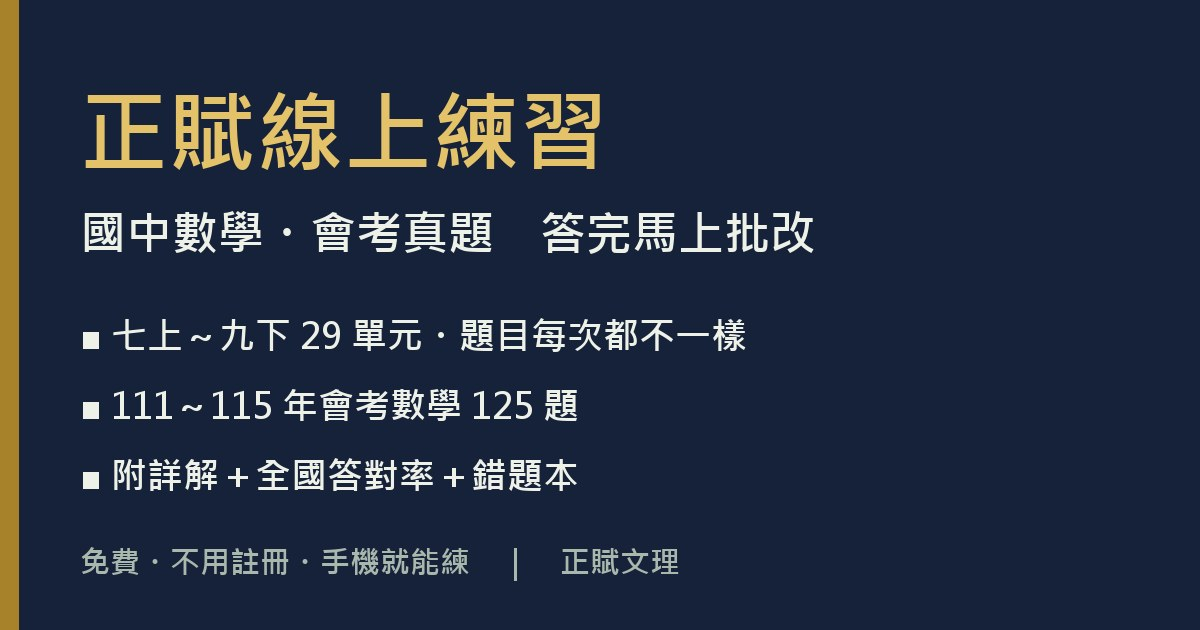
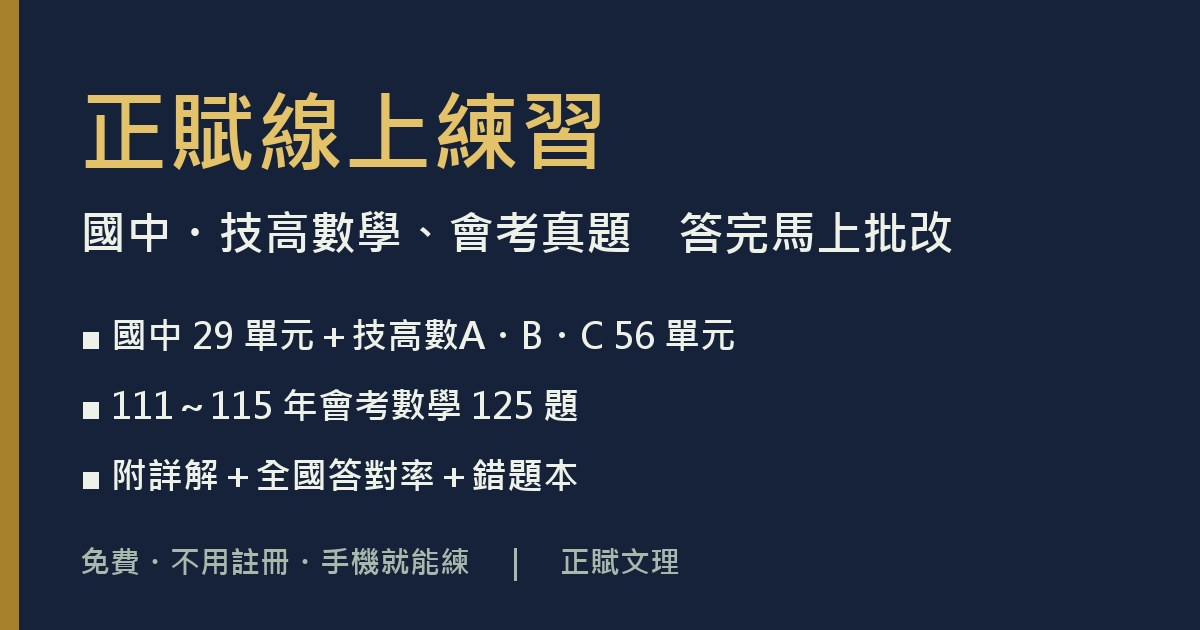
正賦線上練習加入技高數學A・B・C 56 單元（年級可選技高，每日挑戰 10 題）；錯誤選項更難一眼刪除

Changed region(s): [[0.1233, 0.3317, 0.8017, 0.4222], [0.0925, 0.4825, 0.6167, 0.573]]

diff --git a/practice/index.html b/practice/index.html
@@ -4,13 +4,13 @@
 <meta charset="utf-8">
 <meta name="referrer" content="no-referrer-when-downgrade">
 <meta name="viewport" content="width=device-width, initial-scale=1, viewport-fit=cover">
-<title>正賦線上練習｜國中數學・會考真題 線上作答馬上批改</title>
-<meta name="description" content="正賦文理免費國中數學線上練習：七上到九下 29 個單元題目每次都不一樣，加上 111～115 年會考數學真題，答完馬上批改、看詳解和全國答對率。不用註冊，手機平板都能用。">
+<title>正賦線上練習｜國中・技高數學、會考真題 線上作答馬上批改</title>
+<meta name="description" content="正賦文理免費數學線上練習：國中七上到九下 29 單元、技高數學A・B・C 56 單元，題目每次都不一樣，加上 111～115 年會考數學真題，答完馬上批改、看詳解和全國答對率。不用註冊，手機平板都能用。">
 <link rel="icon" type="image/png" href="../img/logo.png">
 <link rel="canonical" href="https://wade-chuang.github.io/jenfoo/practice/">
 <meta property="og:type" content="website"><meta property="og:site_name" content="正賦文理">
-<meta property="og:title" content="正賦線上練習｜國中數學・會考真題，答完馬上批改">
-<meta property="og:description" content="七上到九下數學單元練習＋111～115 年會考真題，看詳解和全國答對率。免費、不用註冊。">
+<meta property="og:title" content="正賦線上練習｜國中・技高數學、會考真題，答完馬上批改">
+<meta property="og:description" content="國中七上到九下、技高數學A・B・C 單元練習，加上 111～115 年會考真題，看詳解和全國答對率。免費、不用註冊。">
 <meta property="og:image" content="https://wade-chuang.github.io/jenfoo/practice/og.jpg"><meta property="og:url" content="https://wade-chuang.github.io/jenfoo/practice/">
 <meta name="twitter:card" content="summary_large_image">
 <link rel="preconnect" href="https://fonts.googleapis.com"><link rel="preconnect" href="https://fonts.gstatic.com" crossorigin>
@@ -154,24 +154,29 @@ footer a{font-weight:700}
   </footer>
 </div>
 
-<script src="data/math_units.js?v=1800e248"></script>
+<script src="data/math_units.js?v=fd008793"></script>
 <script src="data/huikao.js?v=4bdc135d"></script>
 <script>
 /* ================= 基本設定 ================= */
 const $=s=>document.querySelector(s);
 const LINE='https://line.me/ti/p/~jenfoo2021';
-const BOOKS={7:['七上','七下'],8:['八上','八下'],9:['九上','九下']};
-const GZH={7:'七',8:'八',9:'九'};
+// 年級：國中 7/8/9；技高依統測試卷 A/B/C（各四冊）
+const BOOKS={7:['七上','七下'],8:['八上','八下'],9:['九上','九下'],
+  A:['數A一','數A二','數A三','數A四'],B:['數B一','數B二','數B三','數B四'],C:['數C一','數C二','數C三','數C四']};
+const GNAME={7:'七年級',8:'八年級',9:'九年級',A:'技高數學A',B:'技高數學B',C:'技高數學C'};
+const isTK=g=>/^[ABC]$/.test(g);
+const bookName=b=>/^數[ABC]/.test(b)?'第'+b.slice(2)+'冊':b;
 const LEVELS=['數學新手','見習解題手','解題手','進階解題手','計算高手','幾何高手','會考戰士','數學學霸','正賦菁英','數學大師'];
 const esc=s=>String(s).replace(/[&<>"]/g,c=>({'&':'&amp;','<':'&lt;','>':'&gt;','"':'&quot;'}[c]));
 const shuffleArr=a=>{a=a.slice();for(let i=a.length-1;i>0;i--){const j=Math.random()*(i+1)|0;[a[i],a[j]]=[a[j],a[i]]}return a};
 const today=()=>{const d=new Date();return d.getFullYear()+'-'+(d.getMonth()+1)+'-'+d.getDate()};
-const MATH=U.filter(u=>/^[七八九][上下]$/.test(u.g));
+const MATH=U.filter(u=>/^[七八九][上下]$|^數[ABC][一二三四]$/.test(u.g));
 
 /* ================= 學習紀錄（只存在這台裝置） ================= */
 const KEY='jenfoo.practice.v1';
-let S={grade:7,xp:0,stars:0,best:{},wrong:[],days:[],mute:false};
+let S={grade:'7',xp:0,stars:0,best:{},wrong:[],days:[],mute:false};
 try{const v=JSON.parse(localStorage.getItem(KEY)||'null');if(v)S=Object.assign(S,v)}catch(e){}
+S.grade=BOOKS[S.grade]?String(S.grade):'7';
 const save=()=>{try{localStorage.setItem(KEY,JSON.stringify(S))}catch(e){}};
 function streak(){const set=new Set(S.days);let n=0;const d=new Date();if(!set.has(today()))d.setDate(d.getDate()-1);
   for(;;){const k=d.getFullYear()+'-'+(d.getMonth()+1)+'-'+d.getDate();if(set.has(k)){n++;d.setDate(d.getDate()-1)}else break}return n}
@@ -219,18 +224,23 @@ function numVariants(ans,signed){
     else if(n>=12&&n<100&&r<.4&&n%10!==Math.floor(n/10))w=+String(n).split('').reverse().join('');
     else w=n+(Math.random()<.5?-1:1)*(1+(Math.random()*2|0));
     const wn=+w;if(wn<0||(wn===0&&n!==0)||wn===n)continue;
-    if(/\\frac\{-?$/.test(before)){const d=+(after.match(/^\}\{(\d+)\}/)||[])[1];if(!d||gcdi(wn,d)!==1)continue}
-    if(/\\sqrt\{$/.test(before)&&(wn<2||[4,9,16,25,36,49,64,81].includes(wn)))continue;
+    if(n===0&&/=\s*$/.test(before))continue;                            // 方程式右邊的 = 0 不動
+    if(/_\{?$/.test(before))continue;                                   // 下標（a_{n}、S_{16}）不動
+    if(wn===1&&/^\s*(?:[a-zA-Z(]|\\sqrt|\\pi)/.test(after))continue;    // 不會寫成 1x、1√3
+    if(/\\frac\{-?$/.test(before)){const d=+(after.match(/^\}\{(\d+)\}/)||[])[1];if(!d||gcdi(wn,d)!==1||(n<d&&wn>=d))continue}  // 真分數的錯誤選項也是真分數
+    if(/\\sqrt\{$/.test(before)&&(wn<2||[4,9,25,49].some(q=>wn%q===0)))continue;   // 錯誤選項也要是最簡根式
     if(/\^\{?\\circ/.test(after)&&wn>=360)continue;
     out.add(before+(thou?fmtThou(wn):isDec?String(w):String(wn))+after)}
   out.delete(ans);return[...out]}
 function fromMath(u,d){
   let it=null;for(let i=0;i<30&&!it;i++){try{it=u.gen(d)}catch(e){it=null}}if(!it)return null;
-  const ans=it.a;let wrong=shuffleArr(numVariants(ans,SIGNED.has(u.id))).slice(0,3);
-  for(let i=0;i<20&&wrong.length<3;i++){let o=null;try{o=u.gen(d)}catch(e){}if(o&&o.a!==ans&&!wrong.includes(o.a))wrong.push(o.a)}
+  const ans=it.a;let wrong=shuffleArr(numVariants(ans,(SIGNED.has(u.id)||/^(c|ta|tb)-(trig2?|vec2|poly|line|seq|trigsum|explog|logapp|det|matrix|deriv|integral|eq|vec3)$/.test(u.id)))).slice(0,3);
+  // 不夠三個，就借同一單元其他題的答案，但要同一種樣子（開頭兩個字一樣），免得選項一眼就能刪
+  const shape=a=>a.slice(0,2);
+  for(let i=0;i<30&&wrong.length<3;i++){let o=null;try{o=u.gen(d)}catch(e){}if(o&&o.a!==ans&&shape(o.a)===shape(ans)&&!wrong.includes(o.a))wrong.push(o.a)}
   if(wrong.length<3)return null;
   const opts=shuffleArr([ans,...wrong]),instr=u.instr&&!/^依題意作答/.test(u.instr)?u.instr:'';
-  return{kind:'math',tag:u.g+'・'+u.name.replace(/（附圖）/,''),instr,q:it.q,opts,ans:opts.indexOf(ans),e:'正確答案：'+ans,fig:it.fig||'',key:it.k||(it.q+'|'+ans)}}
+  return{kind:'math',tag:(/^數[ABC]/.test(u.g)?'技高'+u.g.slice(0,2)+' '+bookName(u.g):u.g)+'・'+u.name.replace(/（附圖）/,''),instr,q:it.q,opts,ans:opts.indexOf(ans),e:'正確答案：'+ans,fig:it.fig||'',key:it.k||(it.q+'|'+ans)}}
 function fromHK(q){return{kind:'hk',hk:q.id,tag:q.y+' 年會考 第 '+q.no+' 題・'+HK_CH[q.ch],ans:q.a,key:'hk'+q.id}}
 const hkById=id=>HK.find(q=>q.id===id);
 
@@ -239,10 +249,10 @@ function makeSet(unit){
   const out=[],plan=[1,1,1,1,2,2,2,2,3,3],seen=new Set();
   for(let i=0,tries=0;i<10&&tries<60;tries++){const it=fromMath(unit.src,plan[i]);if(!it||seen.has(it.key))continue;seen.add(it.key);out.push(it);i++}
   return out}
-/* 每日挑戰：這個年級的數學單元 9 題＋最後 1 題會考真題 */
-function dailySet(){const us=MATH.filter(u=>BOOKS[S.grade].includes(u.g)),items=[];
-  for(let k=0;k<20&&items.length<9;k++){const it=fromMath(pick(us),1+(Math.random()*3|0));if(it&&!items.some(x=>x.key===it.key))items.push(it)}
-  return items.concat(fromHK(pick(HK)))}
+/* 每日挑戰：國中＝這個年級的單元 9 題＋最後 1 題會考真題；技高＝這份試卷的單元 10 題 */
+function dailySet(){const us=MATH.filter(u=>BOOKS[S.grade].includes(u.g)),items=[],n=isTK(S.grade)?10:9;
+  for(let k=0;k<30&&items.length<n;k++){const it=fromMath(pick(us),1+(Math.random()*3|0));if(it&&!items.some(x=>x.key===it.key))items.push(it)}
+  return isTK(S.grade)?items:items.concat(fromHK(pick(HK)))}
 
 /* ================= 畫面 ================= */
 function header(){$('#stStreak').textContent=streak();$('#stStars').textContent=S.stars;$('#muteBtn').textContent=S.mute?'🔇':'🔊'}
@@ -256,17 +266,20 @@ function viewHome(){
   $('#view').innerHTML=`
   <section class="lvl" aria-label="等級"><div class="lvl-row"><span>Lv.${lv}　${LEVELS[lv-1]}</span><span>${into} / 400 XP</span></div><div class="bar"><i style="width:${into/4}%"></i></div></section>
   <h2>我是幾年級？</h2>
-  <div class="grades" role="group" aria-label="年級">${[7,8,9].map(n=>`<button data-g="${n}" aria-pressed="${n===g}">${GZH[n]}年級</button>`).join('')}</div>
+  <div class="grades" role="group" aria-label="年級">${['7','8','9'].map(n=>`<button data-g="${n}" aria-pressed="${n===g}">${GNAME[n]}</button>`).join('')}</div>
+  <h3>高職（技高）</h3>
+  <div class="grades" role="group" aria-label="技高數學">${['A','B','C'].map(n=>`<button data-g="${n}" aria-pressed="${n===g}">${GNAME[n]}</button>`).join('')}</div>
+  ${isTK(g)?'<p class="hint">工科（機械、電機電子、化工、土木）選數學C；商管、設計、餐旅食品、農業、外語選數學B；護理、家政、幼保、影視選數學A。</p>':''}
   <h2>今天也來練一下</h2>
   <div class="row">
-    <button class="big daily" id="goDaily"><span class="ic">🎯</span><div><b>每日挑戰</b><span>${GZH[g]}年級單元 9 題＋會考真題 1 題</span></div></button>
+    <button class="big daily" id="goDaily"><span class="ic">🎯</span><div><b>每日挑戰</b><span>${isTK(g)?GNAME[g]+'各冊混合 10 題':GNAME[g]+'單元 9 題＋會考真題 1 題'}</span></div></button>
     <a class="big hk" href="#/hk"><span class="ic">📝</span><div><b>會考數學真題</b><span>111～115 年 ${HK.length} 題・附詳解與全國答對率</span></div></a>
     <button class="big" id="goWrong"><span class="ic">📒</span><div><b>錯題本</b><span>${S.wrong.length} 題等你再挑戰</span></div></button>
   </div>
-  <h2>數學單元練習<small>${GZH[g]}年級・題目每次都不一樣</small></h2>
-  <div class="cols">${BOOKS[g].map(b=>{const us=MATH.filter(u=>u.g===b);return`<div><h3>${b}</h3><div class="units">${us.map((u,i)=>unitBtn('m:'+u.id,i+1,u.name.replace(/（附圖）/,''),/附圖/.test(u.name)?'附圖題・每次 10 題':'每次 10 題・由易到難')).join('')}</div></div>`}).join('')}</div>
+  <h2>數學單元練習<small>${GNAME[g]}・題目每次都不一樣</small></h2>
+  <div class="cols">${BOOKS[g].map(b=>{const us=MATH.filter(u=>u.g===b);return`<div><h3>${bookName(b)}</h3><div class="units">${us.map((u,i)=>unitBtn('m:'+u.id,i+1,u.name.replace(/（附圖）/,''),/附圖/.test(u.name)?'附圖題・每次 10 題':'每次 10 題・由易到難')).join('')}</div></div>`}).join('')}</div>
   ${ctaBox()}`;
-  document.querySelectorAll('.grades button').forEach(b=>b.onclick=()=>{S.grade=+b.dataset.g;save();viewHome()});
+  document.querySelectorAll('.grades button').forEach(b=>b.onclick=()=>{S.grade=b.dataset.g;save();viewHome()});
   $('#goDaily').onclick=()=>location.hash='#/daily';$('#goWrong').onclick=()=>location.hash='#/wrong';
   bindUnits()}
 

diff --git a/practice/data/math_units.js b/practice/data/math_units.js
@@ -2509,3 +2509,59 @@ unit({id:'h3-normal',g:'數乙 下',name:'常態分布與信賴區間的概念',
  ['h3-int','h3b-int','數乙 上','多項式函數的積分與面積'],
  ['h3-rv','h3b-rv','數乙 下','隨機變數、二項分布與幾何分布']].forEach(([from,id,g,name])=>{const src=U.find(u=>u.id===from);if(src)unit({...src,id,g,name})});
 
+/* ---------- 技高 數學A、數學B（統測範圍；多數題型沿用數C／高中，另寫統計、方程式） ---------- */
+unit({id:'ta-stat',g:'數A四',name:'統計（平均數、中位數、標準差）',instr:'依題意作答。',h:[18,24,30],gen(d){
+  const med=a=>{const s=a.slice().sort((x,y)=>x-y),n=s.length;return n%2?F(s[(n-1)/2]):F(s[n/2-1]+s[n/2],2)};
+  if(d===1){const n=pick([5,6,7,8]),a=Array.from({length:n},()=>ri(40,99)),sum=a.reduce((x,y)=>x+y,0),t=ri(0,2);
+    const list=a.map(x=>`$${x}$`).join('、');
+    if(t===0)return{q:`某組 $${n}$ 位同學的數學成績為 ${list}，求平均數`,a:`$${ftex(F(sum,n))}$ 分`};
+    if(t===1)return{q:`資料 ${list} 的中位數是多少？`,a:`$${ftex(med(a))}$`};
+    return{q:`資料 ${list} 的全距是多少？`,a:`$${Math.max(...a)-Math.min(...a)}$`}}
+  if(d===2){if(R()<.5){const w=[ri(1,4),ri(2,4),ri(2,5)];if(gcd(gcd(w[0],w[1]),w[2])!==1)return null;const s=[ri(55,98),ri(55,98),ri(55,98)],W=w[0]+w[1]+w[2],v=F(w[0]*s[0]+w[1]*s[1]+w[2]*s[2],W);
+      return{q:`某科成績的計算方式：平時、期中、期末的比重為 $${w[0]} : ${w[1]} : ${w[2]}$。小明三項分別得 $${s[0]}$、$${s[1]}$、$${s[2]}$ 分，求他的加權平均`,a:`$${ftex(v)}$ 分`}}
+    const n=pick([4,5]),m=ri(60,80),a=Array.from({length:n},()=>ri(m-15,m+15)),tot=a.reduce((x,y)=>x+y,0),x=ri(50,99),nm=F(tot+x,n+1);
+    if(tot%n)return null;
+    return{q:`某組 $${n}$ 人的平均成績為 $${tot/n}$ 分，加入一位 $${x}$ 分的同學後，這 $${n+1}$ 人的平均成績是多少？`,a:`$${ftex(nm)}$ 分`}}
+  // 難：母體標準差（資料設計成離差平方和好算）、線性變換
+  if(R()<.5){const m=ri(5,60),dev=pick([[-2,0,2],[-3,-1,1,3],[-4,-2,0,2,4],[-1,0,1],[-2,-1,0,1,2],[-6,-2,2,6],[-3,0,3]]),n=dev.length,ss=dev.reduce((s,v)=>s+v*v,0),a=shuffle(dev.map(v=>m+v));
+    // 標準差 = √(ss/n) = √(ss·n)/n，化成最簡根式並有理化
+    const [k0,r]=sqrtSimp(ss*n),g=gcd(k0,n),k=k0/g,dn=n/g;
+    const sd=dn===1?rad(k,r):`\\frac{${rad(k,r)}}{${dn}}`;
+    return{q:`求資料 ${a.map(x=>`$${x}$`).join('、')} 的（母體）標準差`,a:`$${sd}$`}}
+  const mu=ri(50,80),sg=ri(4,12),k=pick([2,3,-2,10]),b=ri(-20,20);
+  return{q:`一組資料的平均數為 $${mu}$、標準差為 $${sg}$。若每筆資料 $x$ 都換成 $y = ${lin(k,b)}$，求新資料的平均數與標準差`,a:`平均數 $${k*mu+b}$，標準差 $${Math.abs(k)*sg}$`};
+}});
+unit({id:'tb-eq',g:'數B三',name:'方程式（判別式、根與係數、高次方程式）',instr:'依題意作答。',h:[18,24,30],gen(d){
+  if(d===1){if(R()<.5){const p=rnz(-9,9),q=rnz(-9,9),b=-(p+q),c=p*q;if(p===q)return null;
+      return{q:`解方程式 $${quad(1,b,c)} = 0$`,a:roots2(Math.min(p,q),Math.max(p,q))}}
+    const a=rnz(-3,3),b=ri(-9,9),c=rnz(-9,9),D=b*b-4*a*c;
+    return{q:`利用判別式判斷方程式 $${quad(a,b,c)} = 0$ 的根`,a:D>0?'兩相異實根':D===0?'兩相等實根（重根）':'沒有實根（兩共軛虛根）'}}
+  if(d===2){const p=rnz(-6,6),q=rnz(-6,6),a=pick([1,1,2]),b=-a*(p+q),c=a*p*q,S=F(-b,a),Pr=F(c,a),t=ri(0,3);
+    const lab=['$\\alpha + \\beta$ 與 $\\alpha\\beta$','$\\alpha^2 + \\beta^2$','$\\frac{1}{\\alpha} + \\frac{1}{\\beta}$','$(\\alpha - \\beta)^2$'][t];
+    if(t===2&&c===0)return null;
+    const v=[null,fsub(fmul(S,S),fmul(F(2),Pr)),fdiv(S,Pr),fsub(fmul(S,S),fmul(F(4),Pr))][t];
+    return{q:`設 $\\alpha$、$\\beta$ 為方程式 $${quad(a,b,c)} = 0$ 的兩根，求${lab}`,a:t===0?`$\\alpha + \\beta = ${ftex(S)}$，$\\alpha\\beta = ${ftex(Pr)}$`:`$${ftex(v)}$`}}
+  if(R()<.5){const r=[rnz(-4,4),rnz(-4,4),rnz(-4,4)].sort((x,y)=>x-y);if(r[0]===r[1]||r[1]===r[2])return null;
+    const b=-(r[0]+r[1]+r[2]),c=r[0]*r[1]+r[0]*r[2]+r[1]*r[2],e=-r[0]*r[1]*r[2];
+    return{q:`解方程式 $${poly([[1,'x^3'],[b,'x^2'],[c,'x'],[e,'']])} = 0$`,a:`$x = ${r[0]}$、$${r[1]}$、$${r[2]}$`}}
+  const p=rnz(-6,6),q=rnz(-6,6),k=-(p+q),c=p*q;if(p===q||k===0)return null;
+  return{q:`已知 $x = ${p}$ 是方程式 $x^2 + kx ${c<0?'- '+(-c):'+ '+c} = 0$ 的一根，求 $k$ 與另一根`,a:`$k = ${k}$，另一根 $x = ${q}$`};
+}});
+[['ta-stat','tb-stat','數B四','統計（平均數、中位數、標準差）']].forEach(([from,id,g,name])=>{const src=U.find(u=>u.id===from);if(src)unit({...src,id,g,name})});
+/* 照統測數學A、B 的章序排；同一章可能用到兩個題型 */
+[['c-dist','ta-dist','數A一','坐標系：距離、中點與分點'],['quad-func','ta-func','數A一','函數圖形（二次函數的頂點與最值）'],['c-line','ta-line','數A一','直線方程式'],
+ ['c-poly','ta-poly','數A一','式的運算：多項式與餘式定理'],['c-fracrad','ta-fracrad','數A一','式的運算：分式與根式'],
+ ['h-trig','ta-trig','數A二','三角函數：三角比與正弦、餘弦定理'],['c-trig','ta-trig2','數A二','三角函數：廣義角'],['c-circle','ta-circle','數A二','圓與直線'],['c-seq','ta-seq','數A二','數列與級數'],
+ ['c-ineq','ta-ineq','數A三','不等式：一元二次與絕對值不等式'],['h3-lp','ta-lp','數A三','不等式的應用：線性規劃'],['c-explog','ta-explog','數A三','指數與對數'],['c-logapp','ta-logapp','數A三','指數、對數的應用'],
+ ['c-perm','ta-perm','數A四','排列組合'],['c-prob','ta-prob','數A四','機率'],
+ ['c-dist','tb-dist','數B一','坐標系：距離、中點與分點'],['quad-func','tb-func','數B一','函數圖形（二次函數的頂點與最值）'],['c-line','tb-line','數B一','直線方程式'],
+ ['c-poly','tb-poly','數B一','式的運算：多項式與餘式定理'],['c-fracrad','tb-fracrad','數B一','式的運算：分式與根式'],
+ ['c-trig','tb-trig','數B二','三角函數：廣義角'],['c-radian','tb-radian','數B二','三角函數：弧度與扇形'],['c-vec2','tb-vec2','數B二','平面向量'],['c-circle','tb-circle','數B二','圓與直線'],['c-seq','tb-seq','數B二','數列與級數'],
+ ['h3-lp','tb-lp','數B三','二元一次不等式及其應用（線性規劃）'],['c-explog','tb-explog','數B三','指數與對數'],['c-logapp','tb-logapp','數B三','指數、對數的應用'],
+ ['c-trilaw','tb-trilaw','數B四','三角函數的應用：正弦、餘弦定理與面積'],['c-trigsum','tb-trigsum','數B四','三角函數的應用：和差角與二倍角'],['c-perm','tb-perm','數B四','排列組合'],['c-prob','tb-prob','數B四','機率']
+].forEach(([from,id,g,name])=>{const src=U.find(u=>u.id===from);if(src)unit({...src,id,g,name})});
+/* 數A、數B 單元照冊次、統測章序排（新寫的統計、方程式插在正確位置） */
+(()=>{const ORDER=['ta-dist','ta-func','ta-line','ta-poly','ta-fracrad','ta-trig','ta-trig2','ta-circle','ta-seq','ta-ineq','ta-lp','ta-explog','ta-logapp','ta-perm','ta-prob','ta-stat',
+  'tb-dist','tb-func','tb-line','tb-poly','tb-fracrad','tb-trig','tb-radian','tb-vec2','tb-circle','tb-seq','tb-eq','tb-lp','tb-explog','tb-logapp','tb-trilaw','tb-trigsum','tb-perm','tb-prob','tb-stat'];
+  const pulled=ORDER.map(id=>U.splice(U.findIndex(u=>u.id===id),1)[0]);U.push(...pulled)})();
+

diff --git a/index.html b/index.html
@@ -508,7 +508,7 @@ footer .wrap{align-items:center}
     <div class="qh-text">
       <p class="label">免費使用・不用註冊</p>
       <h2>線上練習馬上批改，也能一鍵出卷</h2>
-      <p>國中數學 29 個單元加上 111～115 年會考真題，手機直接作答，答完看詳解和全國答對率。要紙本的話，練習卷一鍵出題、附解答、直接列印。</p>
+      <p>國中數學 29 個單元、技高數學A・B・C 56 個單元，加上 111～115 年會考真題，手機直接作答，答完看詳解和全國答對率。要紙本的話，練習卷一鍵出題、附解答、直接列印。</p>
       <div class="qh-chips"><span>線上作答</span><span>會考真題 125 題</span><span>錯題本</span><em>練習卷：國小到技高 159 單元</em></div>
     </div>
     <div style="display:grid;gap:10px">
@@ -858,8 +858,8 @@ footer .wrap{align-items:center}
     </div>
     <div class="free-cards">
       <a class="comic" href="practice/">
-        <b>國中數學線上練習・會考真題</b>
-        <span>七上到九下 29 個單元，題目每次都不一樣；111～115 年會考數學 125 題真題，答完馬上批改，附詳解和全國答對率，還有錯題本。</span>
+        <b>國中・技高數學線上練習・會考真題</b>
+        <span>國中七上到九下 29 個單元、技高數學A・B・C 56 個單元，題目每次都不一樣；111～115 年會考數學 125 題真題，答完馬上批改，附詳解和全國答對率，還有錯題本。</span>
         <em>開始練習 →</em>
       </a>
       <a class="comic" href="quiz/">
